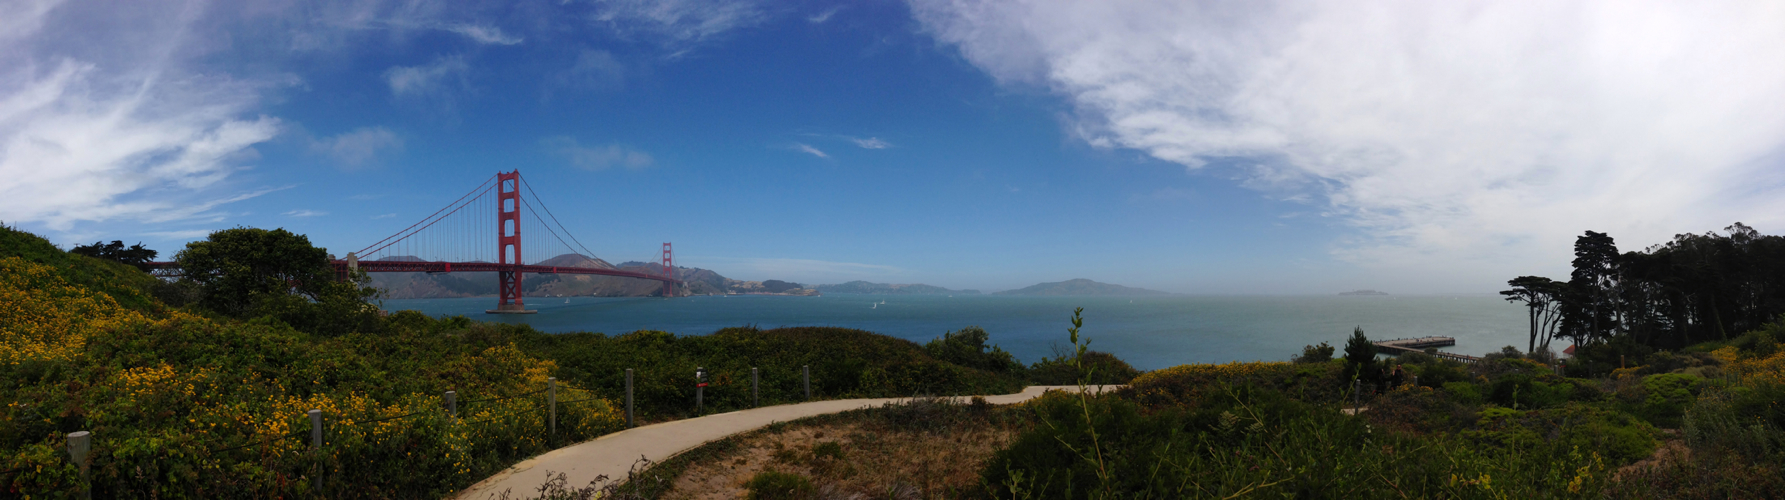
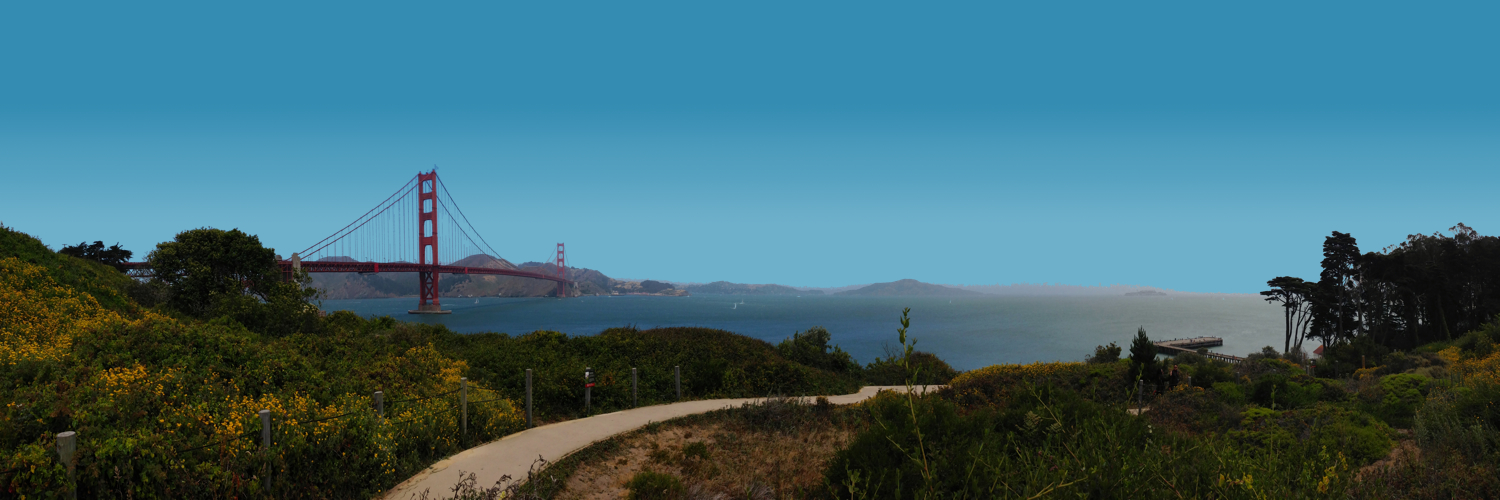
Custom background image

diff --git a/css/style-wide.css b/css/style-wide.css
@@ -22,11 +22,11 @@ body, input, select, textarea {
 
   /* line 40, ../sass/_mixins.scss */
   100% {
-    -moz-transform: translate3d(-1300px,0,0);
-    -webkit-transform: translate3d(-1300px,0,0);
-    -o-transform: translate3d(-1300px,0,0);
-    -ms-transform: translate3d(-1300px,0,0);
-    transform: translate3d(-1300px,0,0);
+    -moz-transform: translate3d(-1785px,0,0);
+    -webkit-transform: translate3d(-1785px,0,0);
+    -o-transform: translate3d(-1785px,0,0);
+    -ms-transform: translate3d(-1785px,0,0);
+    transform: translate3d(-1785px,0,0);
   }
 }
 
@@ -42,11 +42,11 @@ body, input, select, textarea {
 
   /* line 40, ../sass/_mixins.scss */
   100% {
-    -moz-transform: translate3d(-1300px,0,0);
-    -webkit-transform: translate3d(-1300px,0,0);
-    -o-transform: translate3d(-1300px,0,0);
-    -ms-transform: translate3d(-1300px,0,0);
-    transform: translate3d(-1300px,0,0);
+    -moz-transform: translate3d(-1785px,0,0);
+    -webkit-transform: translate3d(-1785px,0,0);
+    -o-transform: translate3d(-1785px,0,0);
+    -ms-transform: translate3d(-1785px,0,0);
+    transform: translate3d(-1785px,0,0);
   }
 }
 
@@ -62,11 +62,11 @@ body, input, select, textarea {
 
   /* line 40, ../sass/_mixins.scss */
   100% {
-    -moz-transform: translate3d(-1300px,0,0);
-    -webkit-transform: translate3d(-1300px,0,0);
-    -o-transform: translate3d(-1300px,0,0);
-    -ms-transform: translate3d(-1300px,0,0);
-    transform: translate3d(-1300px,0,0);
+    -moz-transform: translate3d(-1785px,0,0);
+    -webkit-transform: translate3d(-1785px,0,0);
+    -o-transform: translate3d(-1785px,0,0);
+    -ms-transform: translate3d(-1785px,0,0);
+    transform: translate3d(-1785px,0,0);
   }
 }
 
@@ -82,11 +82,11 @@ body, input, select, textarea {
 
   /* line 40, ../sass/_mixins.scss */
   100% {
-    -moz-transform: translate3d(-1300px,0,0);
-    -webkit-transform: translate3d(-1300px,0,0);
-    -o-transform: translate3d(-1300px,0,0);
-    -ms-transform: translate3d(-1300px,0,0);
-    transform: translate3d(-1300px,0,0);
+    -moz-transform: translate3d(-1785px,0,0);
+    -webkit-transform: translate3d(-1785px,0,0);
+    -o-transform: translate3d(-1785px,0,0);
+    -ms-transform: translate3d(-1785px,0,0);
+    transform: translate3d(-1785px,0,0);
   }
 }
 
@@ -102,16 +102,16 @@ body, input, select, textarea {
 
   /* line 40, ../sass/_mixins.scss */
   100% {
-    -moz-transform: translate3d(-1300px,0,0);
-    -webkit-transform: translate3d(-1300px,0,0);
-    -o-transform: translate3d(-1300px,0,0);
-    -ms-transform: translate3d(-1300px,0,0);
-    transform: translate3d(-1300px,0,0);
+    -moz-transform: translate3d(-1785px,0,0);
+    -webkit-transform: translate3d(-1785px,0,0);
+    -o-transform: translate3d(-1785px,0,0);
+    -ms-transform: translate3d(-1785px,0,0);
+    transform: translate3d(-1785px,0,0);
   }
 }
 
 /* line 43, ../sass/_mixins.scss */
 #bg {
-  background-size: 1300px auto;
-  width: 3900px;
+  background-size: 1785px auto;
+  width: 5355px;
 }

diff --git a/sass/style.scss b/sass/style.scss
@@ -69,7 +69,7 @@
 		@include vendor-property('backface-visibility', 'hidden');
 		@include vendor-property('transform', 'translate3d(0,0,0)');
 		background-color: #348cb2;
-		background-image: url('images/bg.jpg');
+		background-image: url('images/gg.jpg');
 		background-position: bottom left;
 		background-repeat: repeat-x;
 		height: 100%;

diff --git a/css/style.css b/css/style.css
@@ -142,7 +142,7 @@ a:hover {
   -ms-transform: translate3d(0,0,0);
   transform: translate3d(0,0,0);
   background-color: #348cb2;
-  background-image: url("images/bg.jpg");
+  background-image: url("images/gg.jpg");
   background-position: bottom left;
   background-repeat: repeat-x;
   height: 100%;

diff --git a/sass/style-wide.scss b/sass/style-wide.scss
@@ -15,4 +15,4 @@
 
 /* BG */
 
-	@include bg(1300px);
+	@include bg(1785px);
